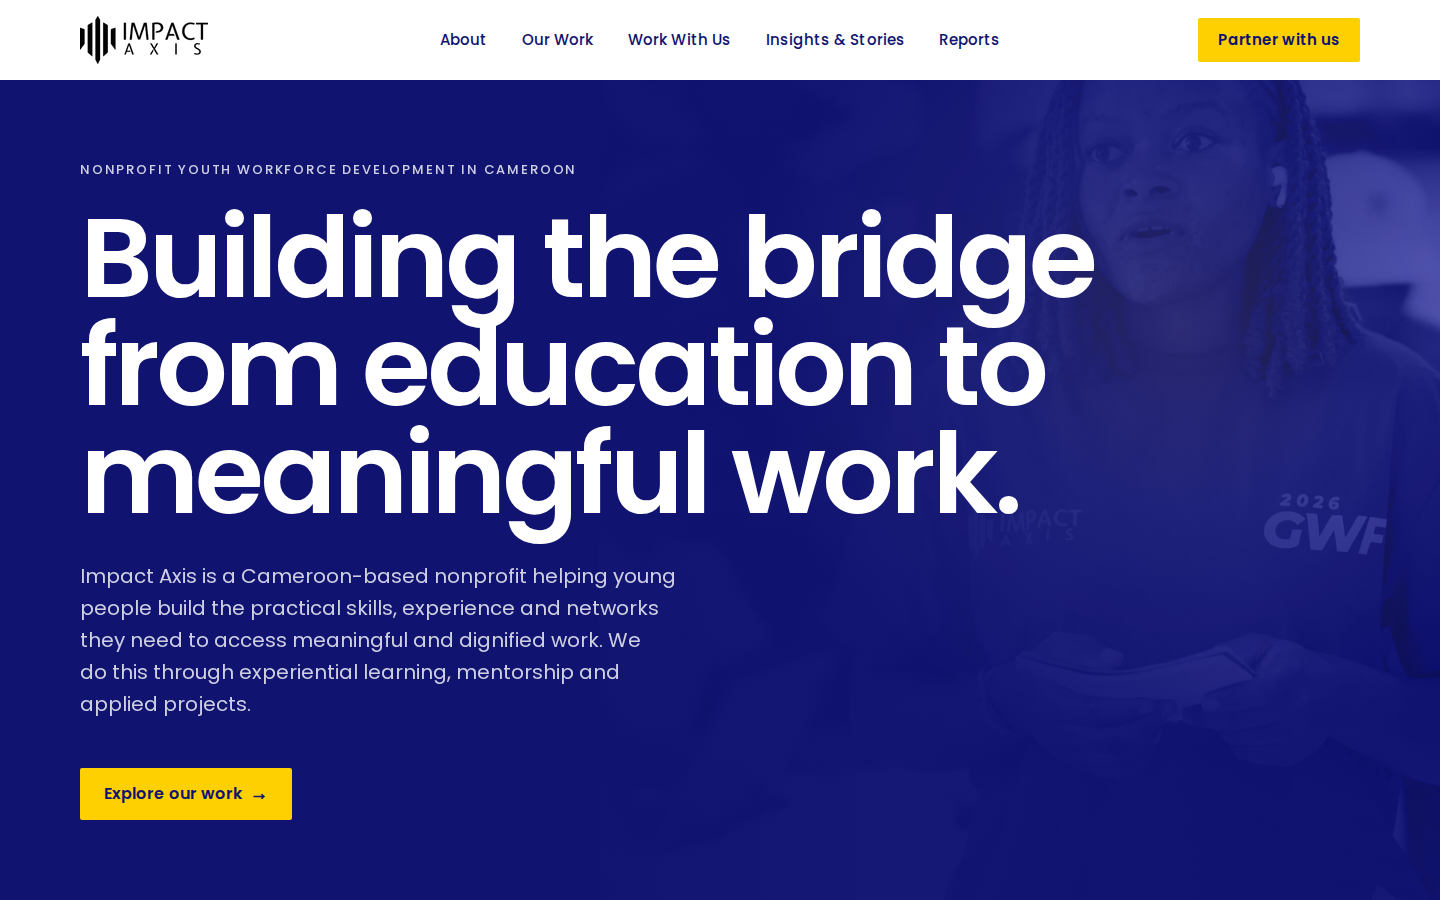
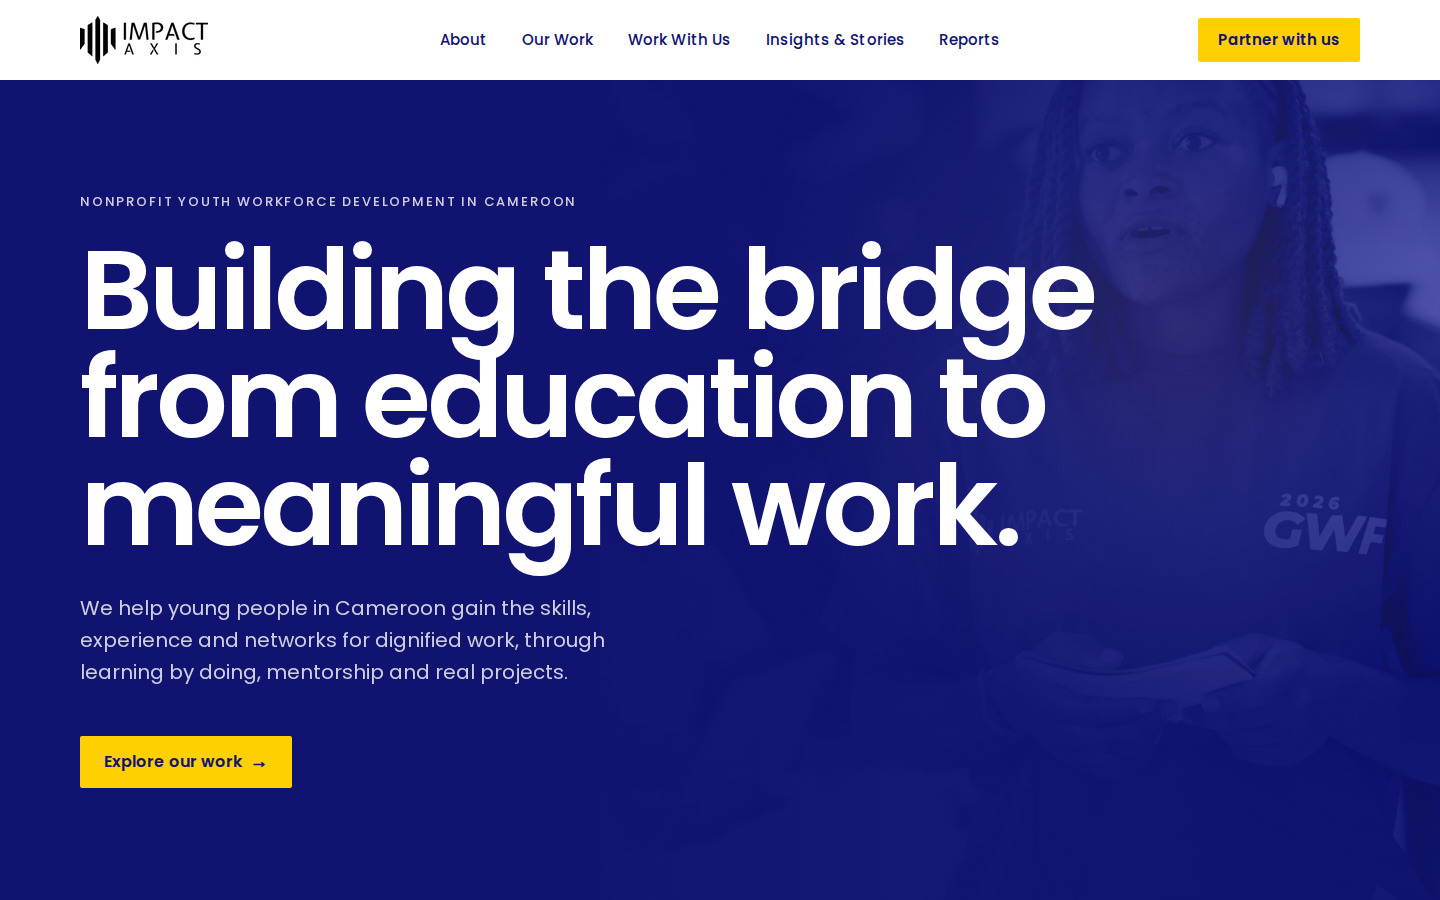
Shorten the hero supporting copy
Owner-requested edit: 38 to 23 words, removing repetition of the eyebrow
and headline. Original wording recorded in BUILD_PROGRESS.md.

Claude-Session: https://claude.ai/code/session_01Di1GVTRjqbPz5vZmZt9UMw

Changed region(s): [[0.0312, 0.1867, 0.7812, 0.9333]]

diff --git a/BUILD_PROGRESS.md b/BUILD_PROGRESS.md
@@ -91,6 +91,11 @@ Verified in Chromium:
 
 Screenshots: `docs/screenshots/illuminated-hero-*`.
 
+**Owner-approved copy change (2026-09-30):** the hero's supporting copy was shortened from 38 to 23 words at the owner's request. It no longer repeats "Cameroon-based nonprofit" (already in the eyebrow) or "meaningful work" (already in the headline).
+- Original (content document): "Impact Axis is a Cameroon-based nonprofit helping young people build the practical skills, experience and networks they need to access meaningful and dignified work. We do this through experiential learning, mentorship and applied projects."
+- Now: "We help young people in Cameroon gain the skills, experience and networks for dignified work, through learning by doing, mentorship and real projects."
+- The homepage meta description still uses the document's original first sentence.
+
 ## Missing content and assets
 
 - **Vector logo master.** Only raster files (PNG/WebP) were supplied. An SVG would be sharper at every size and lighter.
